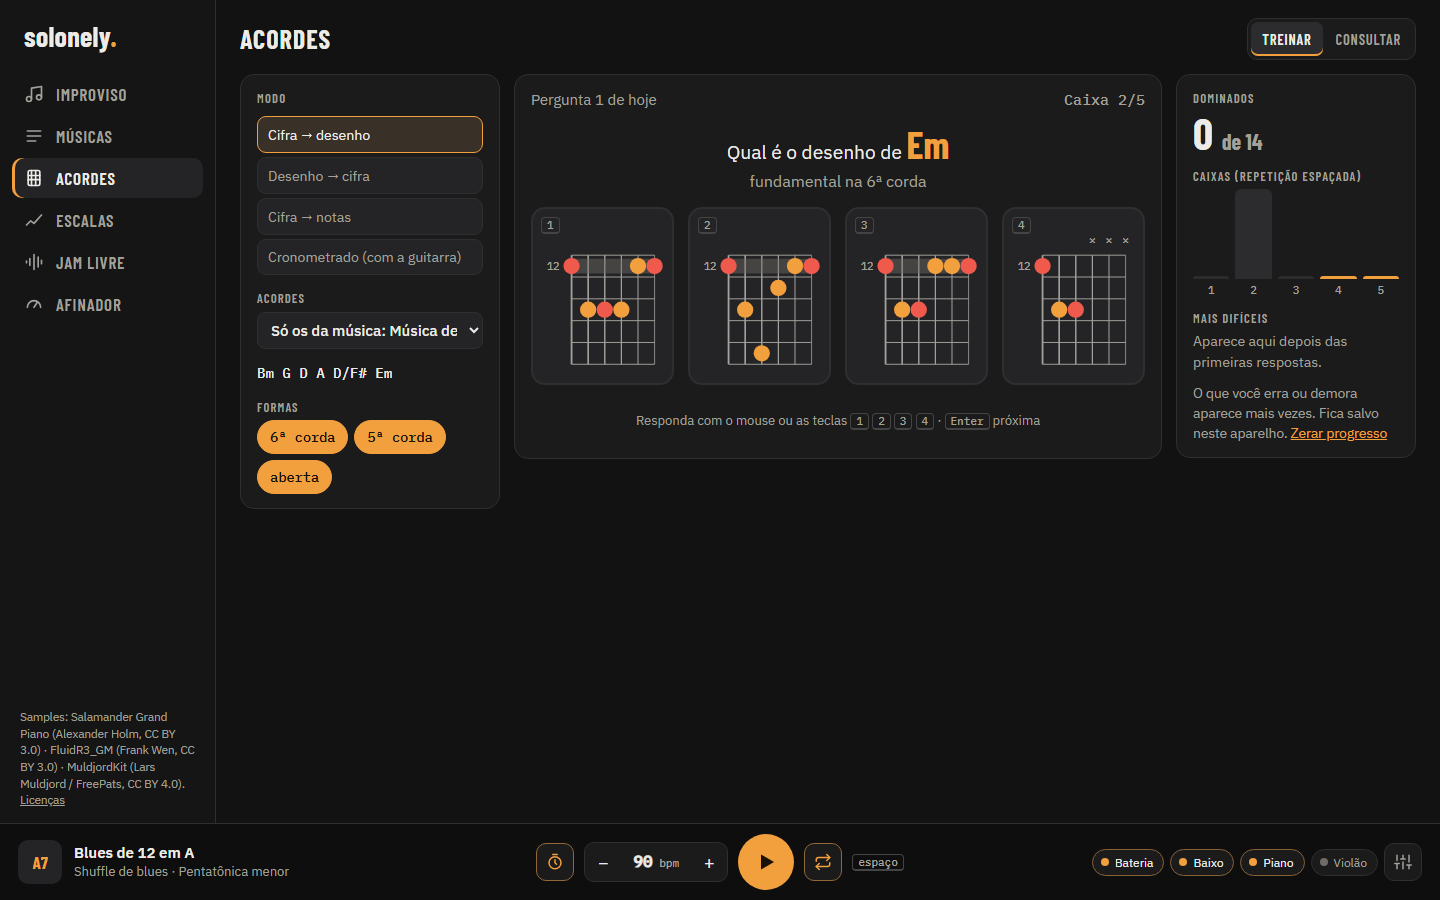
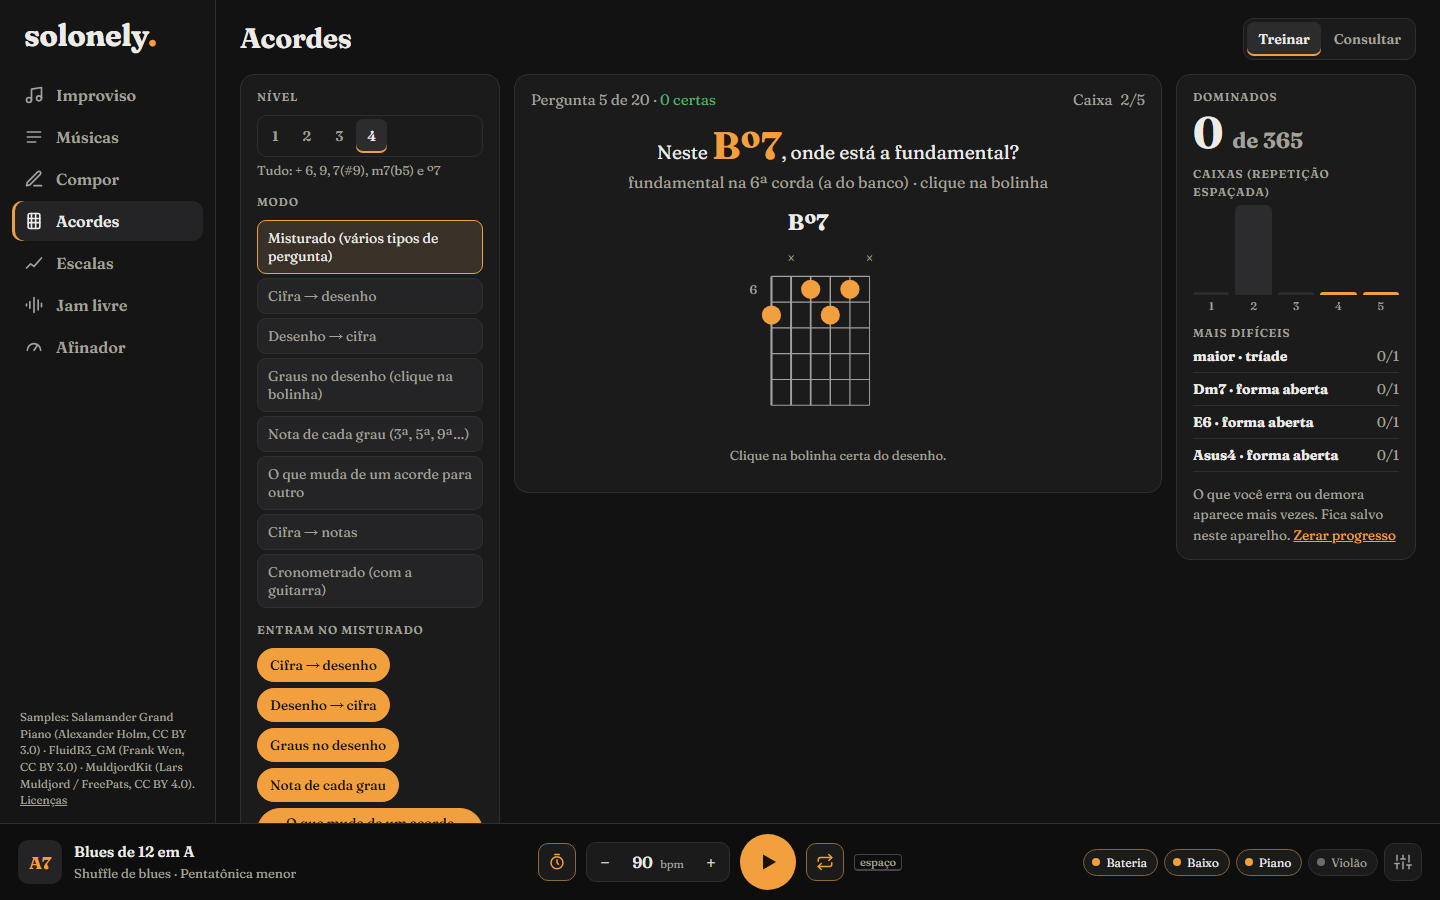
Documentação da Parte B: README, plano, CLAUDE.md e prints novos (Compor e quiz de Acordes)

diff --git a/README.md b/README.md
@@ -50,7 +50,7 @@ por cima de uma base genérica do YouTube. Faltam três coisas:
 - Progressões prontas em tom maior (blues de 12 normal e *quick change*, I–V–vi–IV, I–bVII–IV) e
   menor (blues menor, i–iv–v, i–bVI–bIII–bVII, i–bVII–bVI, andaluza), ou digitadas (`Am*2 G F E7`).
   O seletor de tom tem os 24 tons; num tom menor a base vira a versão menor da progressão.
-- Quatro estilos: **shuffle de blues**, **rock reto**, **slow blues 12/8** e **pop rock/balada**.
+- Cinco estilos: **shuffle de blues**, **rock reto**, **slow blues 12/8**, **pop rock/balada** e **bossa nova**.
 - O braço mostra o desenho (box 1–5) em foco: a **fundamental** em vermelho, as **notas do acorde**
   em destaque com o grau (3, b7…) e a escala em pontos discretos. No tempo 4, brilham as notas do
   **próximo acorde**.
@@ -67,14 +67,24 @@ por cima de uma base genérica do YouTube. Faltam três coisas:
 
 ### Compor
 
-![Compor: progressão por efeito](docs/screenshots/compor.png)
+![Compor: progressão por efeito, com desenhos e levadas](docs/screenshots/compor.png)
 
 - Escolha o tom e o primeiro acorde; a cada passo o app oferece opções pelo **efeito**: repousar,
   criar tensão, subir a energia, melancolia, surpresa, conclusão sóbria / forte / épica, suspense.
-- Cada opção mostra os acordes, os graus e **por que soa assim**, e tem **▶ ouvir** (o último acorde
-  + a opção, no violão) antes de usar; "outra opção" troca a sugestão.
-- Seções (verso, refrão, ponte…) com começos sugeridos, desenhos dos acordes usados,
-  **tocar com a base**, **improvisar sobre ela** e **salvar como música** do repertório.
+- Três **linguagens**: **Pop/Rock** (tríades), **Blues** (tudo com sétima, quick change, #IVº7 de
+  passagem, turnaround) e **Bossa/Jazz** (7M, m7, 6/9, 7(13), ii–V–I, dominantes secundários,
+  substituto trítono como Dm7 → Db7 → C7M(9), I7M → II7, ivm6).
+- Cada opção mostra os acordes, os graus e **por que soa assim**, e tem **▶ ouvir** antes de usar.
+- **Edição livre**: clique num acorde para mudar a duração (½, 1 ou 2 compassos), trocar, mover,
+  duplicar ou apagar; arraste para reordenar; digite qualquer cifra; as sugestões valem para o
+  acorde selecionado. **colorir** enriquece o acorde (C → C7M → C7M(9) → C6/9).
+- **Escolha o desenho** de cada acorde no braço (o mais simples, os outros na ordem do braço, e o
+  mais perto do acorde anterior marcado) ou **aproxime os desenhos** de uma vez: o app escolhe a
+  combinação com menos movimento da mão. A base toca o desenho escolhido.
+- **Levada do violão por seção**: pop baixo-cima, balada dedilhada, rock em colcheias, reggae, funk em
+  semicolcheias, shuffle, bossa nova ou uma batida por compasso. Tom (transpõe tudo), BPM e estilo.
+- **Tocar com a base** em loop (o que você muda entra no próximo compasso), **improvisar sobre ela**
+  e **salvar como música** do repertório, com as durações.
 
 ### Músicas (repertório)
 
@@ -108,9 +118,15 @@ por cima de uma base genérica do YouTube. Faltam três coisas:
   ele fica no braço.
 
 ![Consulta de acordes com todas as formas](docs/screenshots/acordes-consulta.png)
-- **Quatro quizzes**: cifra → desenho, desenho → cifra, cifra → notas e um modo **cronometrado**
-  para fazer com a guitarra na mão, que pode ser **conferido pelo áudio** (o relógio para quando o
-  acorde pedido soa). Teclas 1–4 e Enter para responder.
+- **Quiz com centenas de perguntas** (446 no nível 4): cifra → desenho, desenho → cifra, **graus no
+  desenho** (clique na bolinha da 3ª, da b7…), **nota de cada grau**, **o que muda** de um acorde para
+  outro (C → Cm: a 3ª desce meio tom), cifra → notas e um modo **cronometrado** com a guitarra na mão,
+  **conferido pelo áudio**. Modo misturado, **níveis 1–4** e filtros por tipo de acorde e de forma
+  (aberta, pestana, móvel, tríade nas cordas agudas).
+- Desenhos de verdade: abertos, pestanas e formas móveis que funcionam em quase todas as fundamentais
+  (as do CAGED), além de tríades em 3 grupos de cordas × 3 inversões.
+- **▶ Ouvir a resposta** (arpejado e depois junto) e a que você escolheu; sessões de 10, 20 ou 50
+  com resultado e o que revisar. Teclas 1–4, Enter e O.
 - **Repetição espaçada (Leitner)**: o que você erra ou demora aparece mais vezes.
 
 ### Escalas
@@ -164,7 +180,7 @@ um teclado de brinquedo. O motor novo foi escrito do zero sobre o Tone.js:
 | Humanização | Desvio de tempo por instrumento (o baixo toca levemente atrás), variação de intensidade, *ghost notes* na caixa |
 | Arranjo | Variações A/B por frase, viradas, prato na entrada da frase, baixo idiomático por estilo (desenho de shuffle, aproximação cromática antes da troca) |
 | Piano | **Voice leading**: escolhe a inversão com menor movimento em relação ao acorde anterior |
-| Violão | *Strum* real, com 10–25 ms entre as cordas e batida para cima e para baixo |
+| Violão | *Strum* real, com 10–25 ms entre as cordas e batida para cima e para baixo; 8 levadas (dedilhado, reggae, funk com abafados, bossa com polegar no baixo…) |
 
 **Agendamento preciso e Parar instantâneo.** Cada nota vira um evento do `Tone.Transport` e só é
 entregue ao Web Audio ~50 ms antes de soar. O Parar descarta a fila e fecha um *gate* em 30 ms.
@@ -210,11 +226,11 @@ flowchart LR
     scales["scales<br/>desenhos 1–5"]
     voicings["voicings<br/>banco de acordes"]
     ear["pitch · chroma · key<br/>ouvido"]
-    sug["guide · next-chords<br/>sugestões"]
+    sug["guide · next-chords · compose<br/>sugestões"]
   end
   subgraph audio["audio/"]
     engine["engine<br/>Transport, mixer, agendamento"]
-    styles["styles/<br/>shuffle · rock · 12/8 · balada"]
+    styles["styles/<br/>shuffle · rock · 12/8 · balada · bossa<br/>+ levadas de violão"]
     human["humanize"]
     drums["drums<br/>camadas + round robin"]
     input["input<br/>captura da guitarra"]
@@ -261,7 +277,7 @@ do quiz de acordes e de cifra rolando no tempo.
 | Teoria musical | tonal |
 | Detecção de nota | pitchy (McLeod) + Web Audio `AnalyserNode` |
 | Estado | Zustand (com persistência local) |
-| Testes | Vitest (374 testes) + GitHub Actions |
+| Testes | Vitest (660 testes) + GitHub Actions |
 | Dados | Tudo local no navegador; sem backend |
 | Deploy | Vercel (publica a cada push em `main`) |
 
@@ -280,16 +296,16 @@ npm run e2e        # com o preview rodando: Jam livre num navegador headless com
 
 ## Roadmap
 
-- [x] Motor de áudio com 4 estilos, mixer e humanização
+- [x] Motor de áudio com 5 estilos (inclui bossa nova), levadas de violão, mixer e humanização
 - [x] Improviso: braço com foco por desenho, próxima troca, alvos sugeridos, restrições, progressão digitada
-- [x] Acordes: banco, decodificador, quizzes e repetição espaçada
+- [x] Acordes: banco, consulta com todas as formas, quiz com 7 tipos de pergunta e níveis, repetição espaçada
 - [x] **Escalas**: desenhos 1–5, exercícios no metrônomo, quiz "onde está a nota" e treinos salvos
 - [x] **Entrada de áudio** (interface USB ou microfone): afinador, detecção de nota e de acorde
 - [x] **Jam livre** (primeira versão): acorde e tom detectados, próximos acordes e notas-alvo em tempo real
 - [x] **Músicas** (v0.2): colar uma cifra e virar base de treino, grade editável, cifra rolando
 - [ ] **Treino do dia + progresso**: sessão montada automaticamente e histórico de acertos
 - [x] Jam livre pelo contexto, aprendendo com as músicas do repertório
-- [x] **Compor**: progressões pelo efeito, com teoria, prévia e salvar como música
+- [x] **Compor**: progressões pelo efeito em Pop/Rock, Blues ou Bossa/Jazz, edição livre, desenho de cada acorde e levada por seção
 - [x] O app confere o que você toca: placar de notas-alvo, quiz de acordes e de notas pelo áudio
 - [x] Tons menores, modos, arpejos e acordes 6, 9, 7(#9), m7(b5) e º7
 

diff --git a/CLAUDE.md b/CLAUDE.md
@@ -137,6 +137,15 @@ Cada fase deve terminar com o app rodando e utilizável para praticar.
     da escala); Improviso com escala "acompanha o acorde" (`chordScale`).
   - Acordes no banco: 6, 9, 7(#9), m7(b5), º7. A detecção de áudio usa só os 9 tipos antigos
     (`DETECT_QUALITIES` em chroma.ts): C6 = Am7 em notas, não pode entrar sem nova validação.
+- **Rodada melhorias-2** (branch, aguardando aprovação do usuário): fonte Fraunces no app inteiro;
+  quiz de Acordes novo (`core/chord-bank.ts` com abertas, pestanas, formas móveis do gerador e
+  tríades; `features/acordes/quiz-model.ts` com 7 tipos de pergunta, níveis 1–4, misturado, ouvir a
+  resposta via `engine.playShapes`); Compor reescrito sobre `core/compose-doc.ts` (acorde com
+  `beats` 2/4/8 e `frets` opcional; seção com `strum`), `core/shape-choice.ts` (opções de desenho
+  por facilidade, `closeShapes` = menos movimento da mão), linguagens em `core/compose.ts`
+  (`Lang`: pop/blues/jazz, `colorize`), base do Compor = progId 'song' com id 'compor'
+  (`LoadedSong.strums`, `Segment.midi` → `PlayChord.guitar` no motor); `audio/styles/bossa.ts` e
+  `audio/styles/strums.ts` (8 levadas, `SongConfig.strums` troca só o violão).
 - Prints com Edge headless: sempre `--mute-audio` e fechar o headless no fim (ele toca nas caixas do usuário).
 - Escalas: exercícios (subir/descer, grupos 3 e 4, terças, percorrer boxes) com metrônomo e nota
   acesa, exibição tudo/só tônicas/esconder, quiz "onde está a nota" (clique no braço, Leitner),

diff --git a/docs/plano.md b/docs/plano.md
@@ -37,10 +37,15 @@ revisão antes de salvar, onde dá para corrigir o que veio errado.
 - Área Compor (progressões pelo efeito, com teoria e prévia).
 - v0.4 e v0.5 (quiz pelo áudio e placar de notas-alvo) adiantadas.
 - Escalas novas (modos, arpejos, escala por acorde) e acordes 6, 9, 7(#9), m7(b5), º7.
+- Branch `melhorias-2`: fonte Fraunces; quiz de acordes com centenas de perguntas (graus no
+  desenho, nota do grau, o que muda, níveis 1–4, tríades, ouvir a resposta); Compor com edição livre
+  (duração ½/1/2, mover, digitar, transpor), desenho de cada acorde + "aproximar os desenhos",
+  linguagens Pop/Rock | Blues | Bossa/Jazz, "colorir", levada do violão por seção e estilo Bossa nova.
 
 Ainda do relatório, para depois: pergunta e resposta, licks por estilo, treino de ouvido, loop de
-trecho e "mais devagar e acelerando" nas Músicas, tríades nas cordas agudas, exportar/importar as
-músicas entre aparelhos (junto com a v0.3).
+trecho e "mais devagar e acelerando" nas Músicas, exportar/importar as músicas entre aparelhos
+(junto com a v0.3). Fora do escopo por ora: compasso 3/4 (o motor só toca 4/4); a música salva
+a partir do Compor não guarda o desenho escolhido nem a levada por seção (o modelo Song não tem).
 
 ## v0.3 Treino do dia + Progresso (próxima, quando o usuário pedir)
 1. Migrar `acordes-v1`, `escalas-v1` e `entrada-v1` do localStorage para Dexie, sem perder dados.
